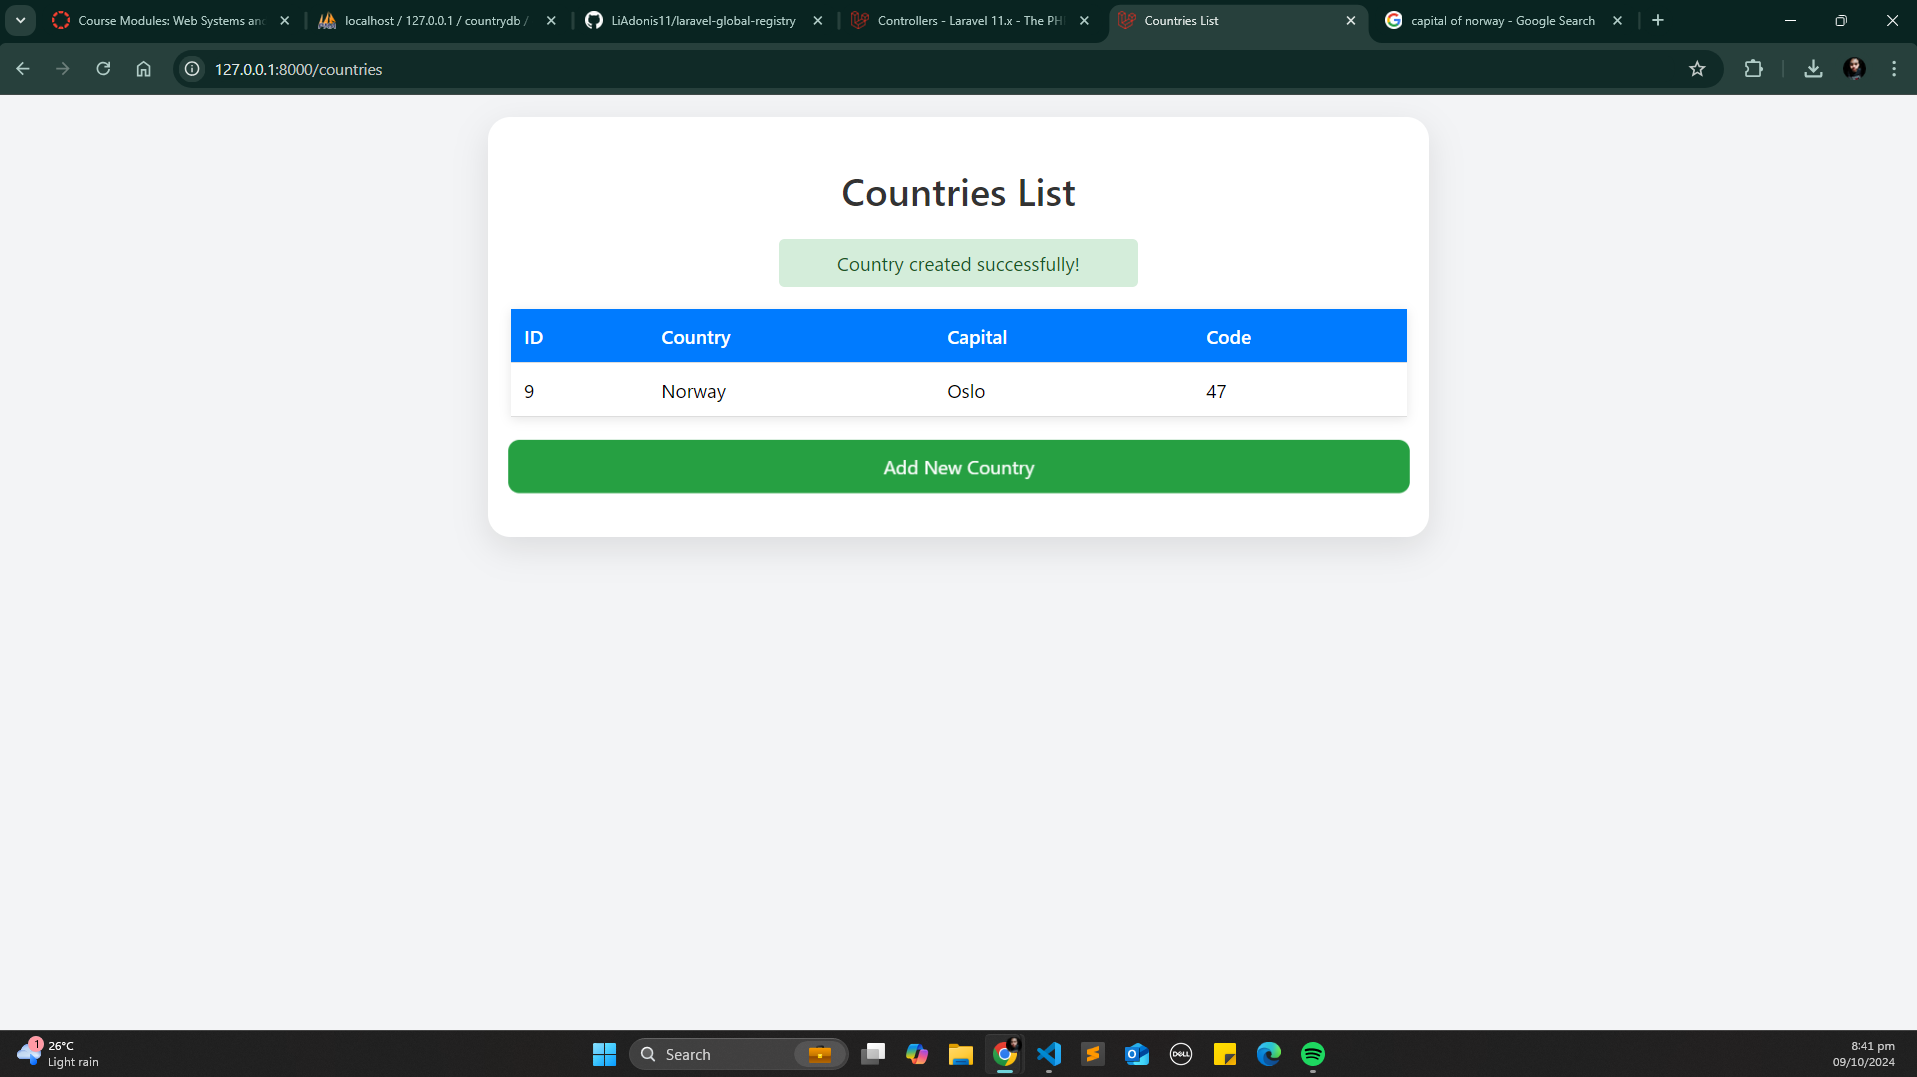
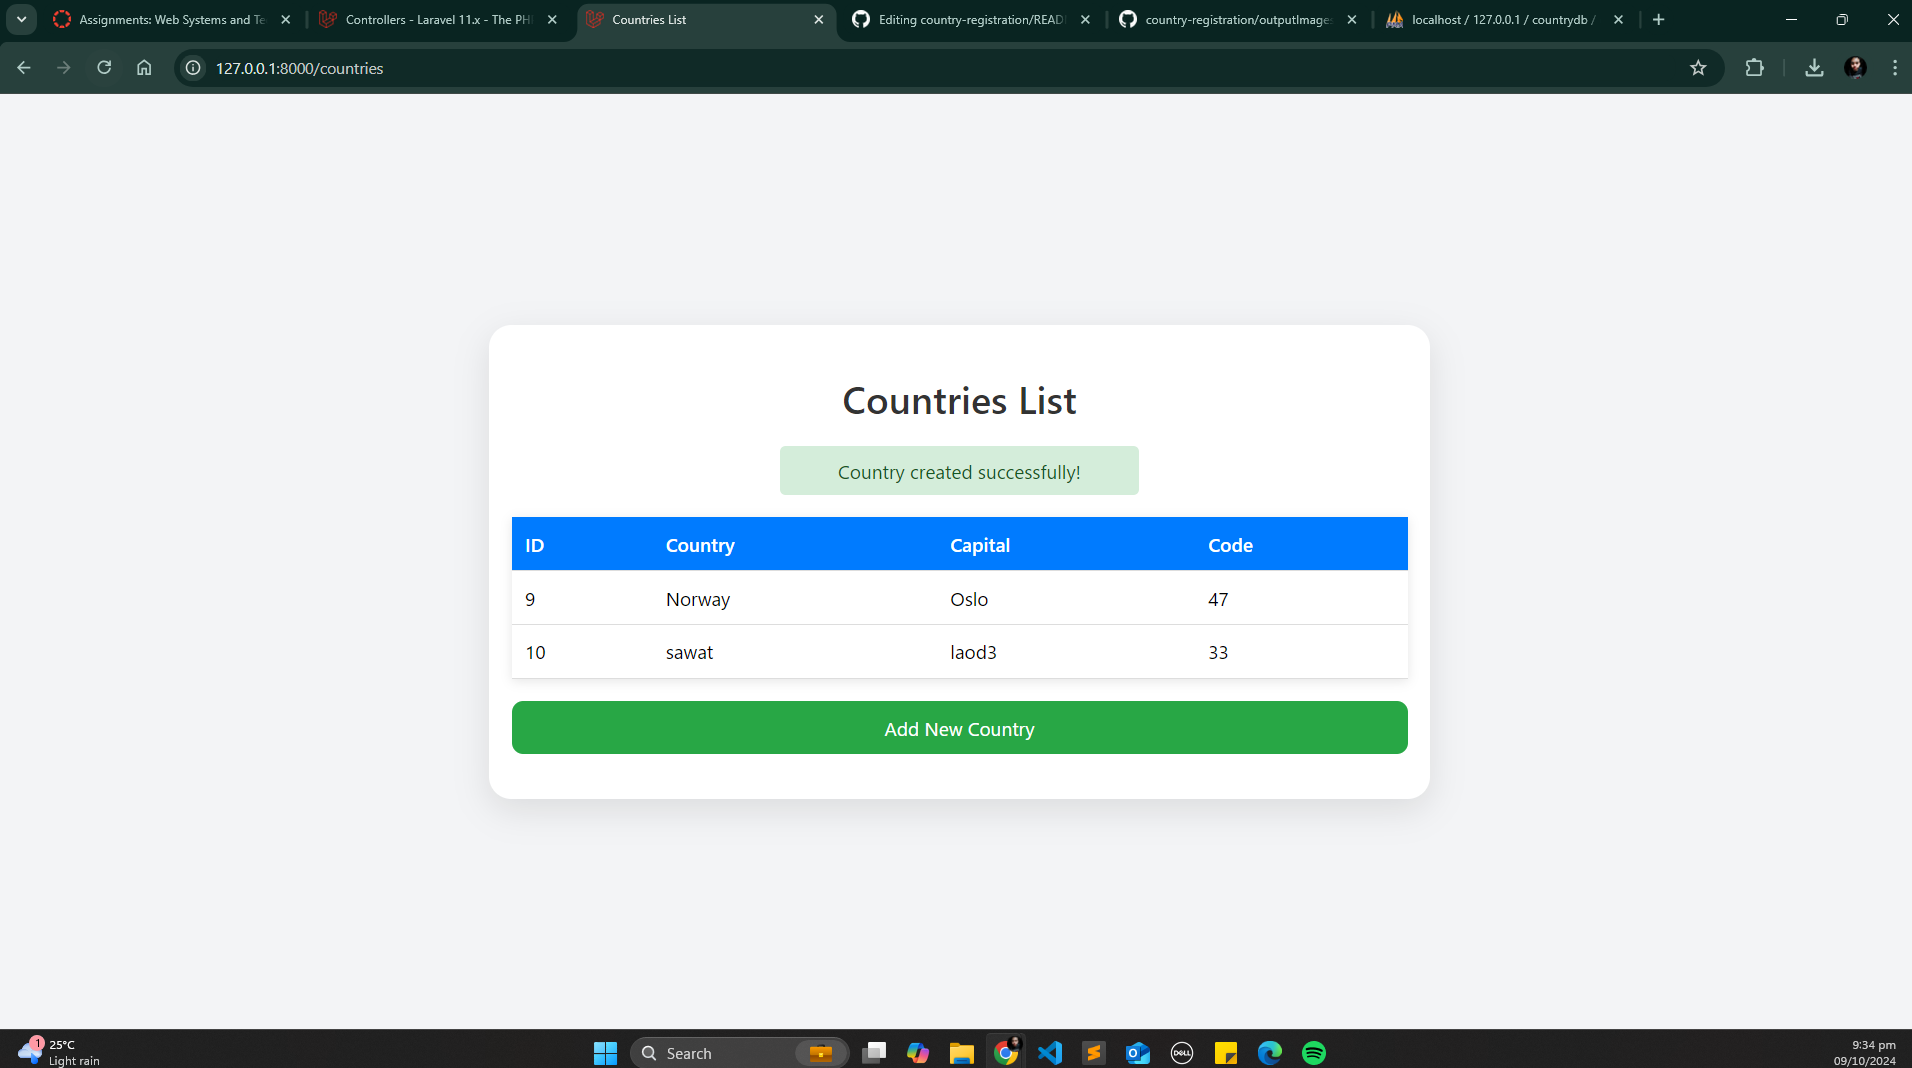
Updated image and file

diff --git a/resources/views/countries/index.blade.php b/resources/views/countries/index.blade.php
@@ -9,11 +9,12 @@
         body {
             font-family: 'Helvetica Neue', sans-serif;
             margin: 0;
-            padding: 20px;
+            padding: 0;
             background-color: #f3f4f6;
             display: flex;
-            flex-direction: column;
+            justify-content: center;
             align-items: center;
+            height: 100vh;
         }
 
         h1 {
